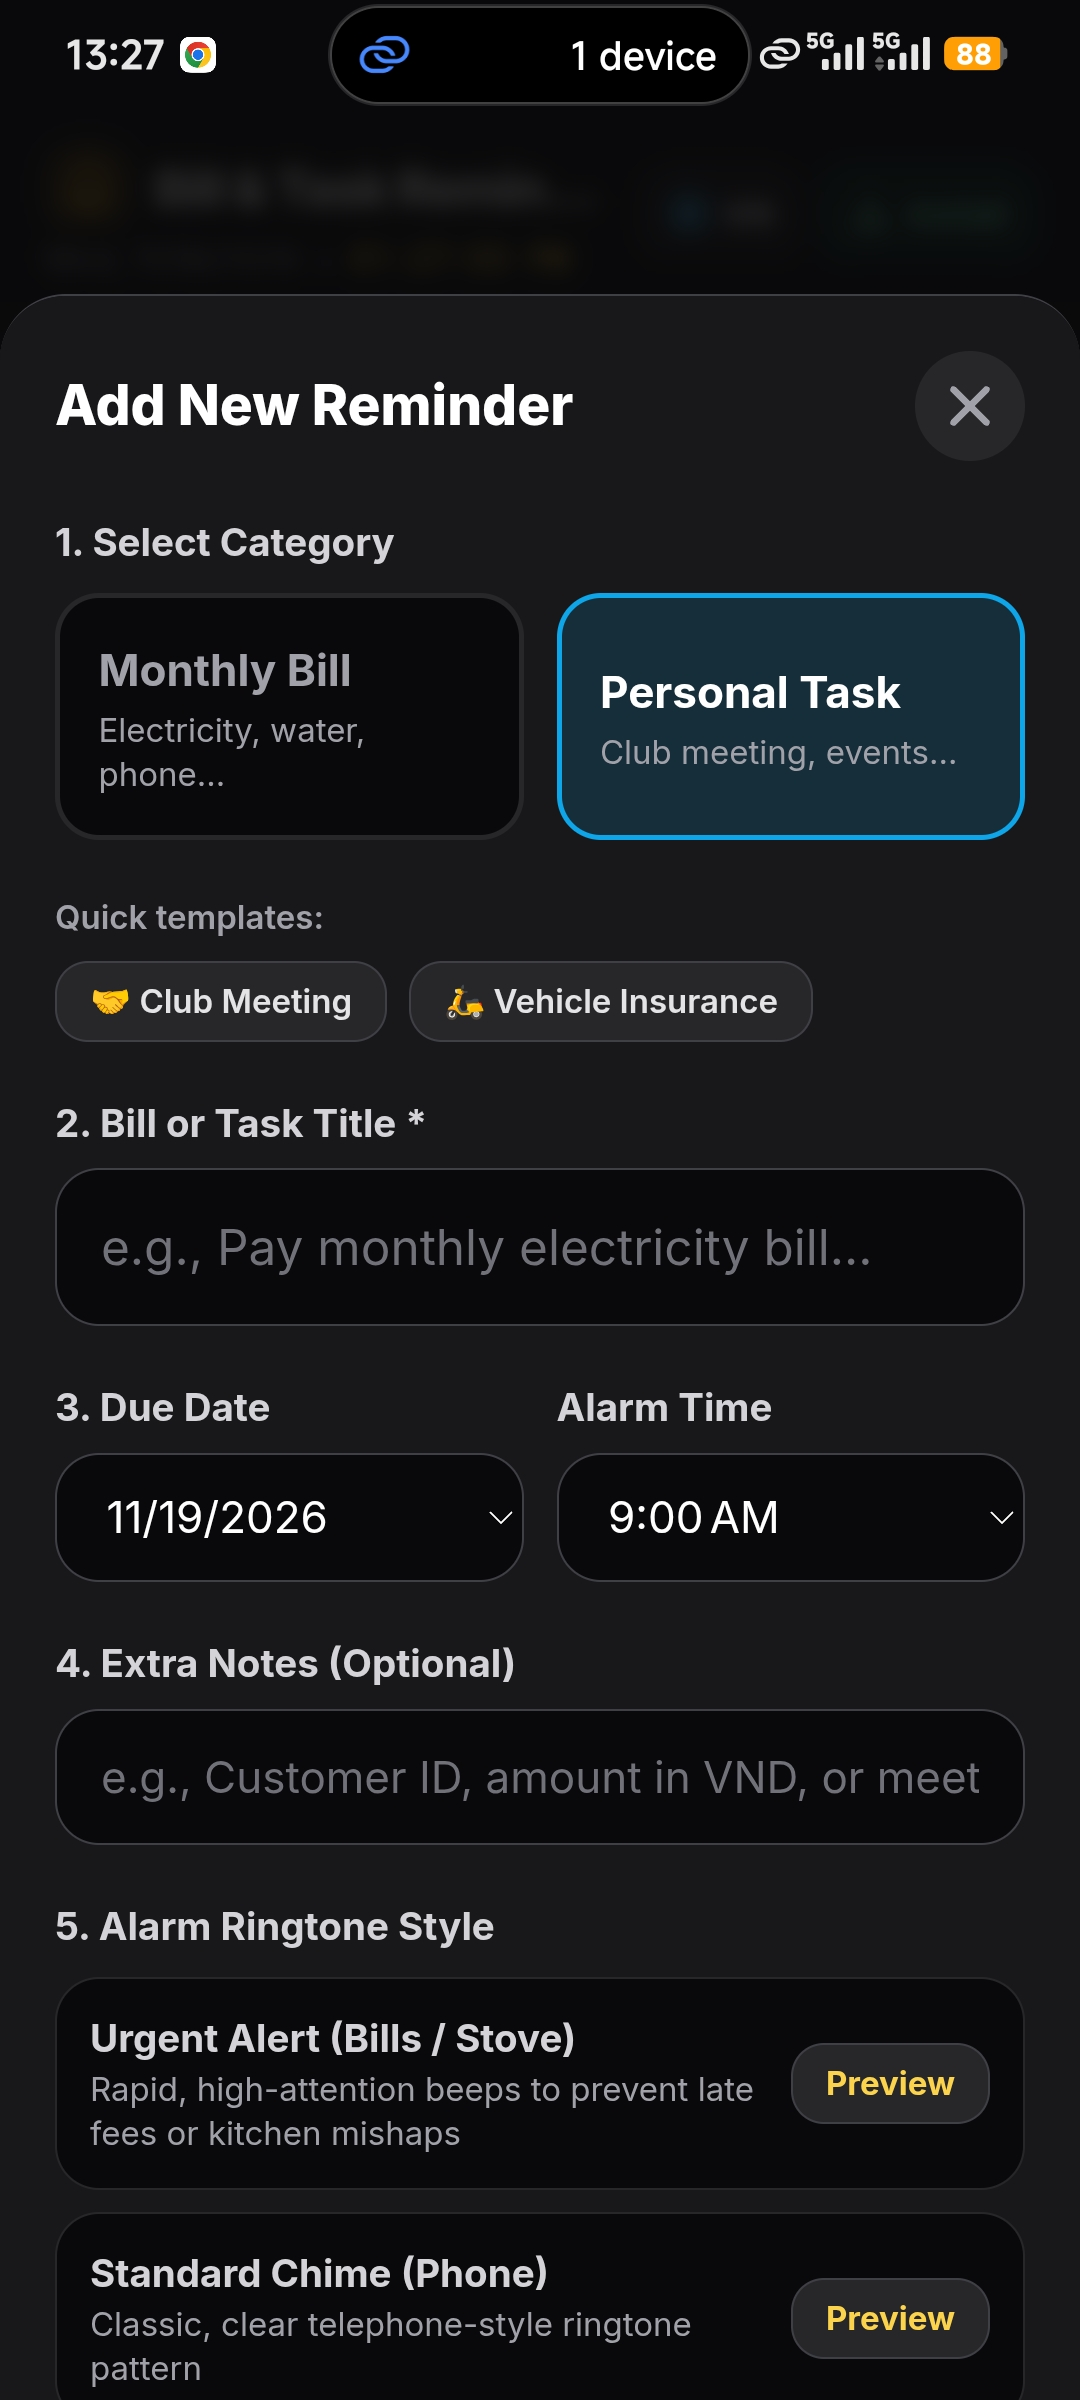
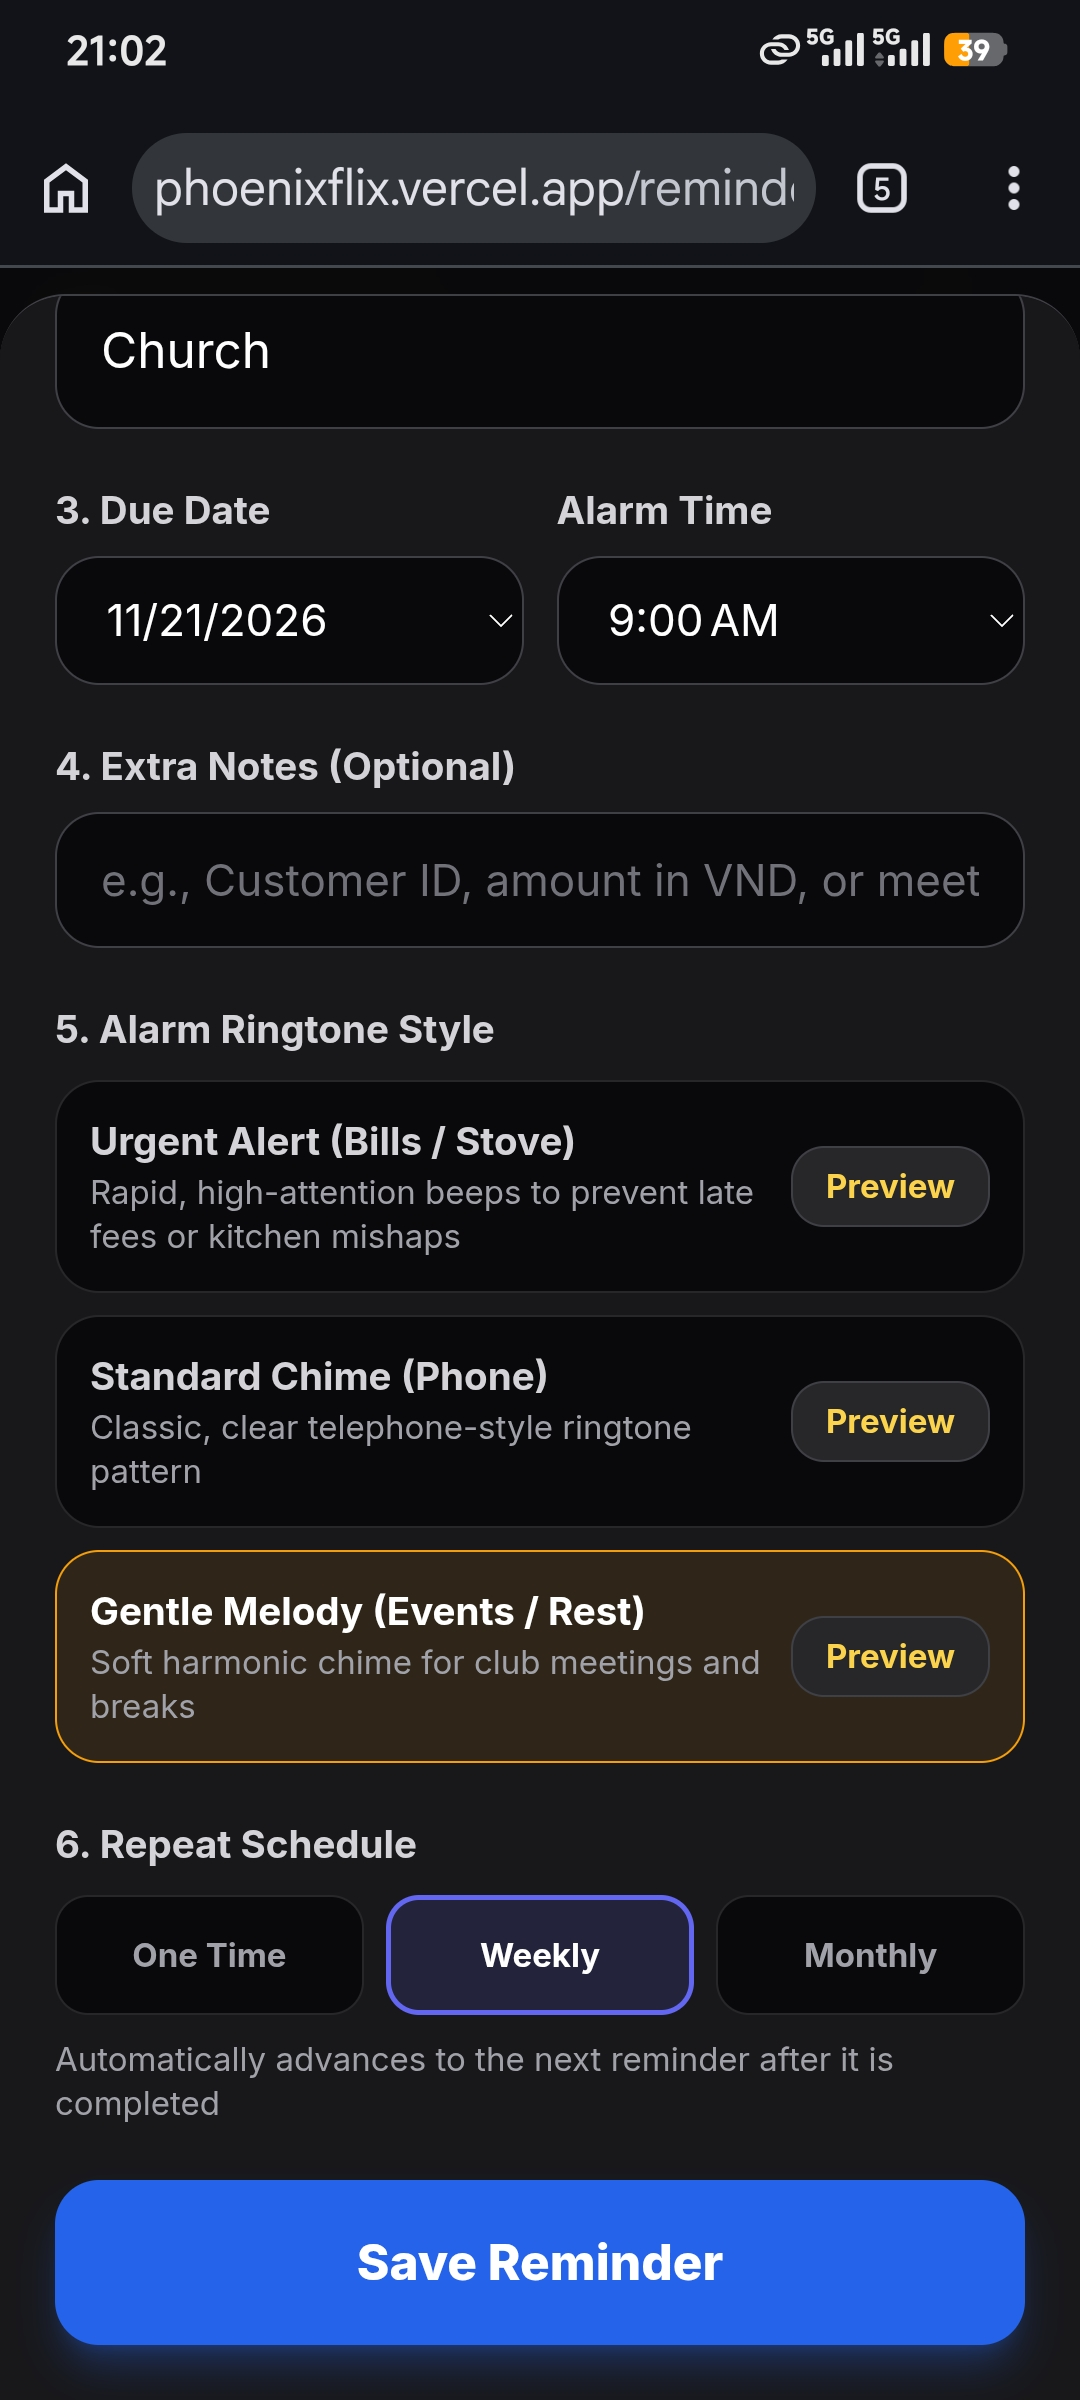
🏆 BenTran 👉 Reminder ✨ 181126 2334 ✨

diff --git a/README_reminder.md b/README_reminder.md
@@ -1,11 +1,11 @@
 # 🔔 PhoenixFlixReminder — Bill & Task Reminder / Nhắc Hóa Đơn & Việc (PWA)
 
-**PhoenixFlixReminder** is available at 👉 **[phoenixflix.vercel.app/reminder](https://phoenixflix.vercel.app/reminder)** 📅
+👉 **[phoenixflix.vercel.app/reminder](https://phoenixflix.vercel.app/reminder)** 📅
 
-🌐 **[English](#-english-guide)** &nbsp;|&nbsp; **[App Screenshots](#-app-screenshots)** &nbsp;|&nbsp; **[Tiếng Việt](#-hướng-dẫn-tiếng-việt)**
+🌐 **[English](#english)** &nbsp;|&nbsp; **[App Screenshots](#screenshots)** &nbsp;|&nbsp; **[Tiếng Việt](#vietnamese)**
 
 ---
-
+<a id="english"></a>
 ## 🇬🇧 English Guide
 
 A zero-dependency, offline-first **Progressive Web App (PWA)** designed to help you never miss monthly recurring utility bills (electricity, water, phone/internet), personal schedules (sports events, club meetings, interviews), or time-sensitive kitchen timers (boiling water, turning off the stove).
@@ -20,6 +20,11 @@ What began as a practical tool for mom would be useful for everyone around us—
 
 ### ✨ Key Features
 
+- **Flexible Reminder Schedules:**
+  - Choose **One Time** for a single appointment or task.
+  - Choose **Weekly** for repeating events such as Saturday morning sports or Sunday morning church.
+  - Choose **Monthly** for recurring bills and other month-to-month obligations.
+  - Completing a weekly or monthly reminder automatically advances the due date to the next week or month.
 - **Monthly Recurring Bills & Late-Fee Shield:**
   - Pre-configured reminders for Electricity (EVN), Water, and Mobile/Wi-Fi bills.
   - Smart urgency badges automatically highlight bills that are **Due Tomorrow**, **Due Today**, or **Overdue** to prevent late fees or service disconnection.
@@ -44,7 +49,8 @@ What began as a practical tool for mom would be useful for everyone around us—
 2. **Manage Bills & Tasks:**
    - Open the **Bills & Tasks** tab to view urgent bills (*Due Tomorrow / Overdue*) at the top.
    - Tap the circular checkbox next to any bill to mark it **Paid** and auto-schedule next month's due date.
-   - Tap **`+ Add Task`** at the bottom right to add a new bill or personal task (or pick a 1-tap template like *Club Meeting*), set the date, alarm time, and ringtone, then tap **Save**.
+   - Tap **`+ Add Task`** at the bottom right to add a new bill or personal task (or pick a 1-tap template like *Club Meeting*), set the date and alarm time, select **One Time**, **Weekly**, or **Monthly**, choose a ringtone, then tap **Save**.
+   - Use **Weekly** for appointments such as Saturday morning sports or Sunday morning church. Completing the reminder moves it forward by seven days.
    - Tap the **Pencil (`✏`)** icon on any card to edit its schedule or notes.
 3. **Run Kitchen & Focus Timers:**
    - Switch to the **Quick Timers** tab and tap any preset (such as *Boil Water 5 min* or *Turn Off Stove 10 min*) to start counting down immediately.
@@ -58,28 +64,30 @@ What began as a practical tool for mom would be useful for everyone around us—
 
 1. Open **[phoenixflix.vercel.app/reminder](https://phoenixflix.vercel.app/reminder)** in your browser.
 2. Tap the **Install** button in the top-right header, or use your browser menu:
-   - **iPhone / iPad (Safari):** Tap **Share** at the bottom bar $\rightarrow$ **"Add to Home Screen"**.
-   - **Android (Chrome):** Tap the **3-dot menu (`⋮`)** at the top right $\rightarrow$ **"Install app"** or **"Add to Home screen"**.
+   - **iPhone / iPad (Safari):** Tap **Share** at the bottom bar → **"Add to Home Screen"**.
+   - **Android (Chrome):** Tap the **3-dot menu (`⋮`)** at the top right → **"Install app"** or **"Add to Home screen"**.
    - **Desktop (Chrome / Edge):** Click the **Install (`+`)** icon on the right side of the address bar.
 
 ---
 
-## 📸 App Screenshots
+<a id="screenshots"></a>
+## 📸 App Screenshots / Ảnh Chụp Màn Hình
 
-| Home Dashboard (`VN` / `EN`) | Add New Reminder | Edit Date & Alarm Time |
+| Home Dashboard / Bảng Điều Khiển (`VN` / `EN`) | Add New Reminder / Thêm Lịch Nhắc | Edit Date & Alarm Time / Chỉnh Ngày & Giờ Báo |
 | :---: | :---: | :---: |
-| ![Home Dashboard](images/reminder_EN.jpg) | ![Add New Reminder](images/reminder_AddingSchedule.jpg) | ![Edit Date & Alarm Time](images/reminder_EditingSchedule.jpg) |
+| ![Home Dashboard](reminder_EN.jpg) | ![Add New Reminder](reminder_AddingSchedule.jpg) | ![Edit Date & Alarm Time](reminder_EditingSchedule.jpg) |
 
-| Running & Parallel Timers | Create Custom Timer | Ringtone & Vibration Settings |
+| Running & Parallel Timers / Hẹn Giờ Chạy Song Song | Create Custom Timer / Tạo Hẹn Giờ Tùy Chỉnh | Ringtone & Vibration Settings / Cài Đặt Chuông & Rung |
 | :---: | :---: | :---: |
-| ![Running Timers](images/reminder_RunningTimer.jpg) | ![Create Custom Timer](images/reminder_AddNewTimer.jpg) | ![Ringtone Settings](images/reminder_Setting.jpg) |
+| ![Running Timers](reminder_RunningTimer.jpg) | ![Create Custom Timer](reminder_AddNewTimer.jpg) | ![Ringtone Settings](reminder_Setting.jpg) |
 
-| Bill Payment Alarm Overlay | Timer Alarm Overlay | Offline PWA Install Guide |
+| Bill Payment Alarm / Báo Thức Hóa Đơn | Timer Alarm / Báo Thức Hẹn Giờ | Offline PWA Install / Cài Đặt PWA Ngoại Tuyến |
 | :---: | :---: | :---: |
-| ![Bill Payment Alarm](images/reminder_AlertingSchedule.jpg) | ![Timer Alarm](images/reminder_AlertingTimer.jpg) | ![Offline PWA Install](images/reminder_Install.jpg) |
+| ![Bill Payment Alarm](reminder_AlertingSchedule.jpg) | ![Timer Alarm](reminder_AlertingTimer.jpg) | ![Offline PWA Install](reminder_Install.jpg) |
 
 ---
 
+<a id="vietnamese"></a>
 ## 🇻🇳 Hướng Dẫn Tiếng Việt
 
 **PhoenixFlixReminder** là ứng dụng web tiến bộ (**PWA**) gọn nhẹ, không phụ thuộc thư viện ngoài và hoạt động **100% Offline**, giúp bạn không bao giờ quên đóng các hóa đơn định kỳ hàng tháng (tiền điện, nước, điện thoại/internet), lịch hẹn cá nhân (thi đấu thể thao, họp CLB, phỏng vấn) hay các bộ hẹn giờ nấu bếp khẩn cấp (nấu nước sôi, tắt bếp).
@@ -90,10 +98,15 @@ What began as a practical tool for mom would be useful for everyone around us—
 
 **PhoenixFlixReminder** bắt nguồn từ một nhu cầu giản dị hằng ngày trong gia đình: giúp mẹ tôi nhớ đóng tiền điện, nước, điện thoại trực tuyến đúng hạn trước khi bị phạt trễ hạn, đồng thời có một tiếng chuông báo thức thật rõ ràng mỗi khi nấu nước sôi để mẹ không quên tắt bếp làm cạn khô nồi!
 
-Từ một công cụ nhỏ dành cho mẹ, ứng dụng có thể hữu ích cho tất cả mọi người xung quanh — từ việc nhắc đồng đội đến sân đúng giờ thi đấu, nhắc lịch phỏng vấn xin việc quan trọng, cho đến báo thức chuẩn bị trước các cuộc họp.
+Từ một công cụ nhỏ dành cho mẹ, ứng dụng có thể trở nên hữu ích cho mọi người xung quanh — từ việc nhắc đồng đội đến sân đúng giờ thi đấu, nhắc lịch phỏng vấn xin việc quan trọng, cho đến báo thức chuẩn bị trước các cuộc họp.
 
 ### ✨ Tính Năng Nổi Bật
 
+- **Chu Kỳ Nhắc Linh Hoạt:**
+  - Chọn **Một lần** cho cuộc hẹn hoặc công việc chỉ cần nhắc một lần.
+  - Chọn **Hàng tuần** cho lịch lặp lại, ví dụ thể thao sáng thứ Bảy hoặc đi nhà thờ sáng Chủ Nhật.
+  - Chọn **Hàng tháng** cho hóa đơn và các khoản phải thực hiện theo tháng.
+  - Sau khi đánh dấu hoàn thành, lịch hàng tuần tự dời sang tuần sau và lịch hàng tháng tự dời sang tháng sau.
 - **Quản Lý Hóa Đơn Định Kỳ & Tránh Phí Phạt:**
   - Tạo sẵn lịch nhắc cho tiền Điện (EVN), Nước và Điện thoại/Wi-Fi.
   - Nhãn cảnh báo thông minh tự động làm nổi bật các khoản **Sắp đến hạn**, **Hôm nay**, hoặc **Quá hạn** để tránh bị phạt trễ hạn hay cắt dịch vụ.
@@ -118,7 +131,8 @@ Từ một công cụ nhỏ dành cho mẹ, ứng dụng có thể hữu ích ch
 2. **Quản Lý Hóa Đơn & Công Việc:**
    - Mở tab **Hóa đơn & Việc** để xem các khoản cần đóng gấp (*Sắp đến hạn / Quá hạn*) ngay trên cùng.
    - Bấm vào ô tròn bên cạnh hóa đơn để đánh dấu **Đã đóng** và tự động gia hạn sang tháng sau.
-   - Bấm nút **`+ Thêm việc`** ở góc dưới bên phải để tạo lịch nhắc mới (hoặc chọn mẫu *Đi họp CLB*, *Bảo hiểm xe*), chọn ngày, giờ báo chuông, kiểu chuông rồi bấm **Lưu**.
+   - Bấm nút **`+ Thêm việc`** ở góc dưới bên phải để tạo lịch nhắc mới (hoặc chọn mẫu *Đi họp CLB*, *Bảo hiểm xe*), chọn ngày, giờ báo chuông, chu kỳ **Một lần**, **Hàng tuần** hoặc **Hàng tháng**, kiểu chuông rồi bấm **Lưu**.
+   - Dùng **Hàng tuần** cho lịch như thể thao sáng thứ Bảy hoặc đi nhà thờ sáng Chủ Nhật. Sau khi hoàn thành, lịch tự dời sang đúng một tuần sau.
    - Bấm biểu tượng **Bút chì (`✏`)** trên từng thẻ để chỉnh sửa lịch hoặc ghi chú.
 3. **Dùng Bộ Hẹn Giờ Nấu Bếp & Tập Trung:**
    - Chuyển sang tab **Hẹn giờ nhanh** và bấm vào mẫu có sẵn (như *Nấu nước sôi 5p* hoặc *Tắt bếp / Nấu ăn 10p*) để bắt đầu đếm ngược ngay.
@@ -132,11 +146,9 @@ Từ một công cụ nhỏ dành cho mẹ, ứng dụng có thể hữu ích ch
 
 1. Mở **[phoenixflix.vercel.app/reminder](https://phoenixflix.vercel.app/reminder)** trên trình duyệt điện thoại hoặc máy tính.
 2. Bấm nút **Cài App (`Install`)** ở góc trên bên phải, hoặc làm theo hướng dẫn trên trình duyệt:
-   - **iPhone / iPad (Safari):** Bấm biểu tượng **Chia sẻ** ở thanh dưới cùng $\rightarrow$ chọn **"Thêm vào MH chính"**.
-   - **Android (Chrome):** Bấm biểu tượng **3 chấm (`⋮`)** ở góc trên bên phải $\rightarrow$ chọn **"Cài đặt ứng dụng"** hoặc **"Thêm vào Màn hình chính"**.
+   - **iPhone / iPad (Safari):** Bấm biểu tượng **Chia sẻ** ở thanh dưới cùng → chọn **"Thêm vào MH chính"**.
+   - **Android (Chrome):** Bấm biểu tượng **3 chấm (`⋮`)** ở góc trên bên phải → chọn **"Cài đặt ứng dụng"** hoặc **"Thêm vào Màn hình chính"**.
    - **Máy tính (Chrome / Edge):** Bấm biểu tượng **Cài đặt (`+`)** ở góc phải thanh địa chỉ trình duyệt.
-
----
 
 ## 🛠 Tech Stack & Privacy / Công Nghệ & Bảo Mật
 
